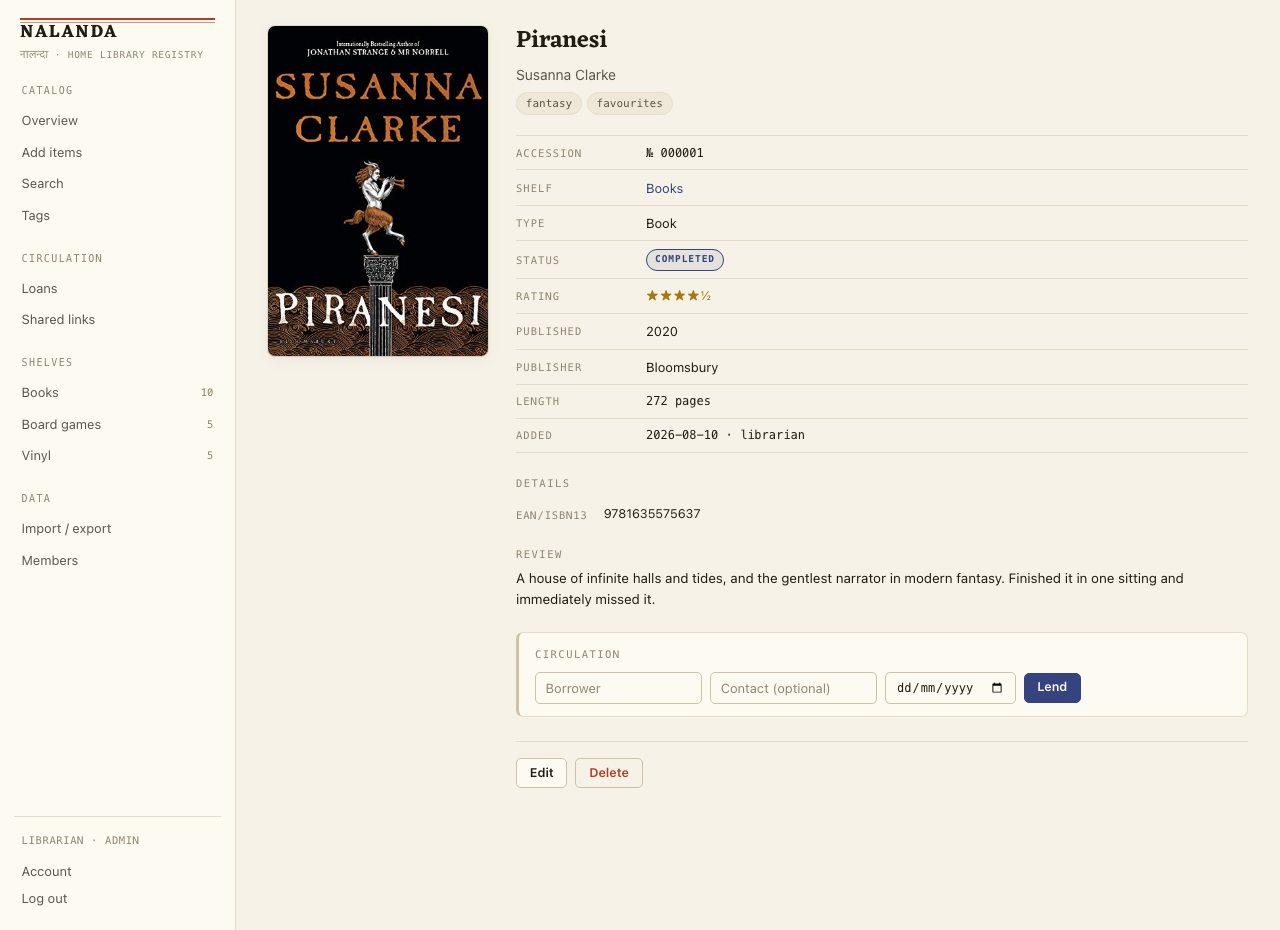
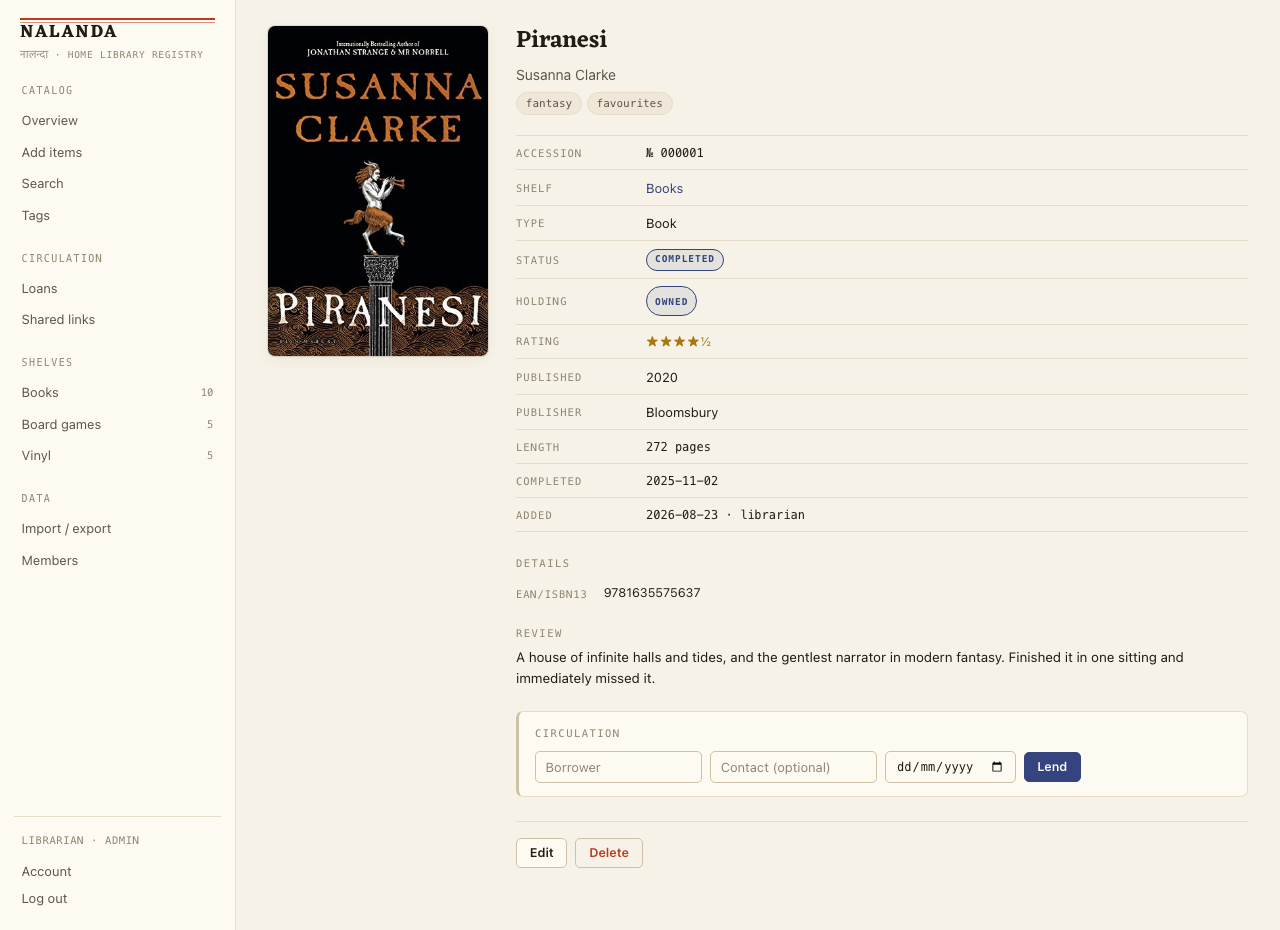
docs: regenerate screenshots for the current UI
The README shots predated both merged PRs: shelf-table.png was missing the
Holding and Completed columns, and item.png the Holding row. All eight are
recaptured from one seeded session so they agree with each other, now that the
seed carries completion dates and the tables have something to show.

Adds columns-menu.png for the Columns dropdown, and updates the ledger-view
caption, which listed a column set two features out of date.

diff --git a/README.md b/README.md
@@ -40,8 +40,8 @@ See [ARCH.md](ARCH.md) for the design and the reasoning behind it.
 
 | | |
 |---|---|
-| ![The overview page: owned and not-owned counts, shelves with their visibility, loans, recent additions](docs/screenshots/overview.png) | ![A shelf in table view: title, type, year, rating, status, tags, accession number](docs/screenshots/shelf-table.png) |
-| **Overview** — what's owned, what's only read, what's out on loan, and how public each shelf is. | **The ledger view** — every shelf reads as a catalogue card, down to the accession number. |
+| ![The overview page: owned and not-owned counts, shelves with their visibility, loans, recent additions](docs/screenshots/overview.png) | ![A shelf in table view, sorted by date completed: title, type, year, completed, rating, status, holding, tags, accession number](docs/screenshots/shelf-table.png) |
+| **Overview** — what's owned, what's only read, what's out on loan, and how public each shelf is. | **The ledger view** — every shelf reads as a catalogue card, down to the accession number. Sort by title, rating, date added or date finished. |
 | ![An item page showing cover, catalogue fields, review, and the lending form](docs/screenshots/item.png) | ![A public share page listing finished books, with no sidebar or account links](docs/screenshots/share.png) |
 | **An item** — metadata auto-filled from the barcode, your rating and review below it. | **A published share** — one filtered view, its own link. No notes, no loans, no way back into the app. |
 
@@ -50,6 +50,12 @@ gets one page — each link's scope, the number of items it exposes right now, a
 remove on the spot:
 
 ![The shared links page: two published links, one scoped to finished books, one to a whole shelf](docs/screenshots/shares.png)
+
+Ten columns don't suit every shelf — a vinyl record has no "date finished", a board game
+would rather show play time than year — so the table's columns are yours to pick, remembered
+per device:
+
+![The Columns dropdown open over the shelf table, with a checkbox per column](docs/screenshots/columns-menu.png)
 
 And a lamp-lit dark mode that follows the system setting:
 

diff --git a/docs/screenshots/README.md b/docs/screenshots/README.md
@@ -16,6 +16,8 @@ The demo instance is fully separate from `npm run dev`: a different port and a d
 Shots are 1280px wide, light mode except `shelf-dark.png`. Headless browsers inherit the
 system appearance, so capturing light mode on a dark-themed machine means neutralising the
 `@media (prefers-color-scheme: dark)` block in `public/app.css` before the screenshot.
+`columns-menu.png` has its dropdown forced open by stamping the `open` attribute
+server-side, since headless can't click.
 
 The cover art visible in these images was fetched by the app from Open Library, Google
 Books, and Discogs at seed time. It remains the property of the respective publishers and
